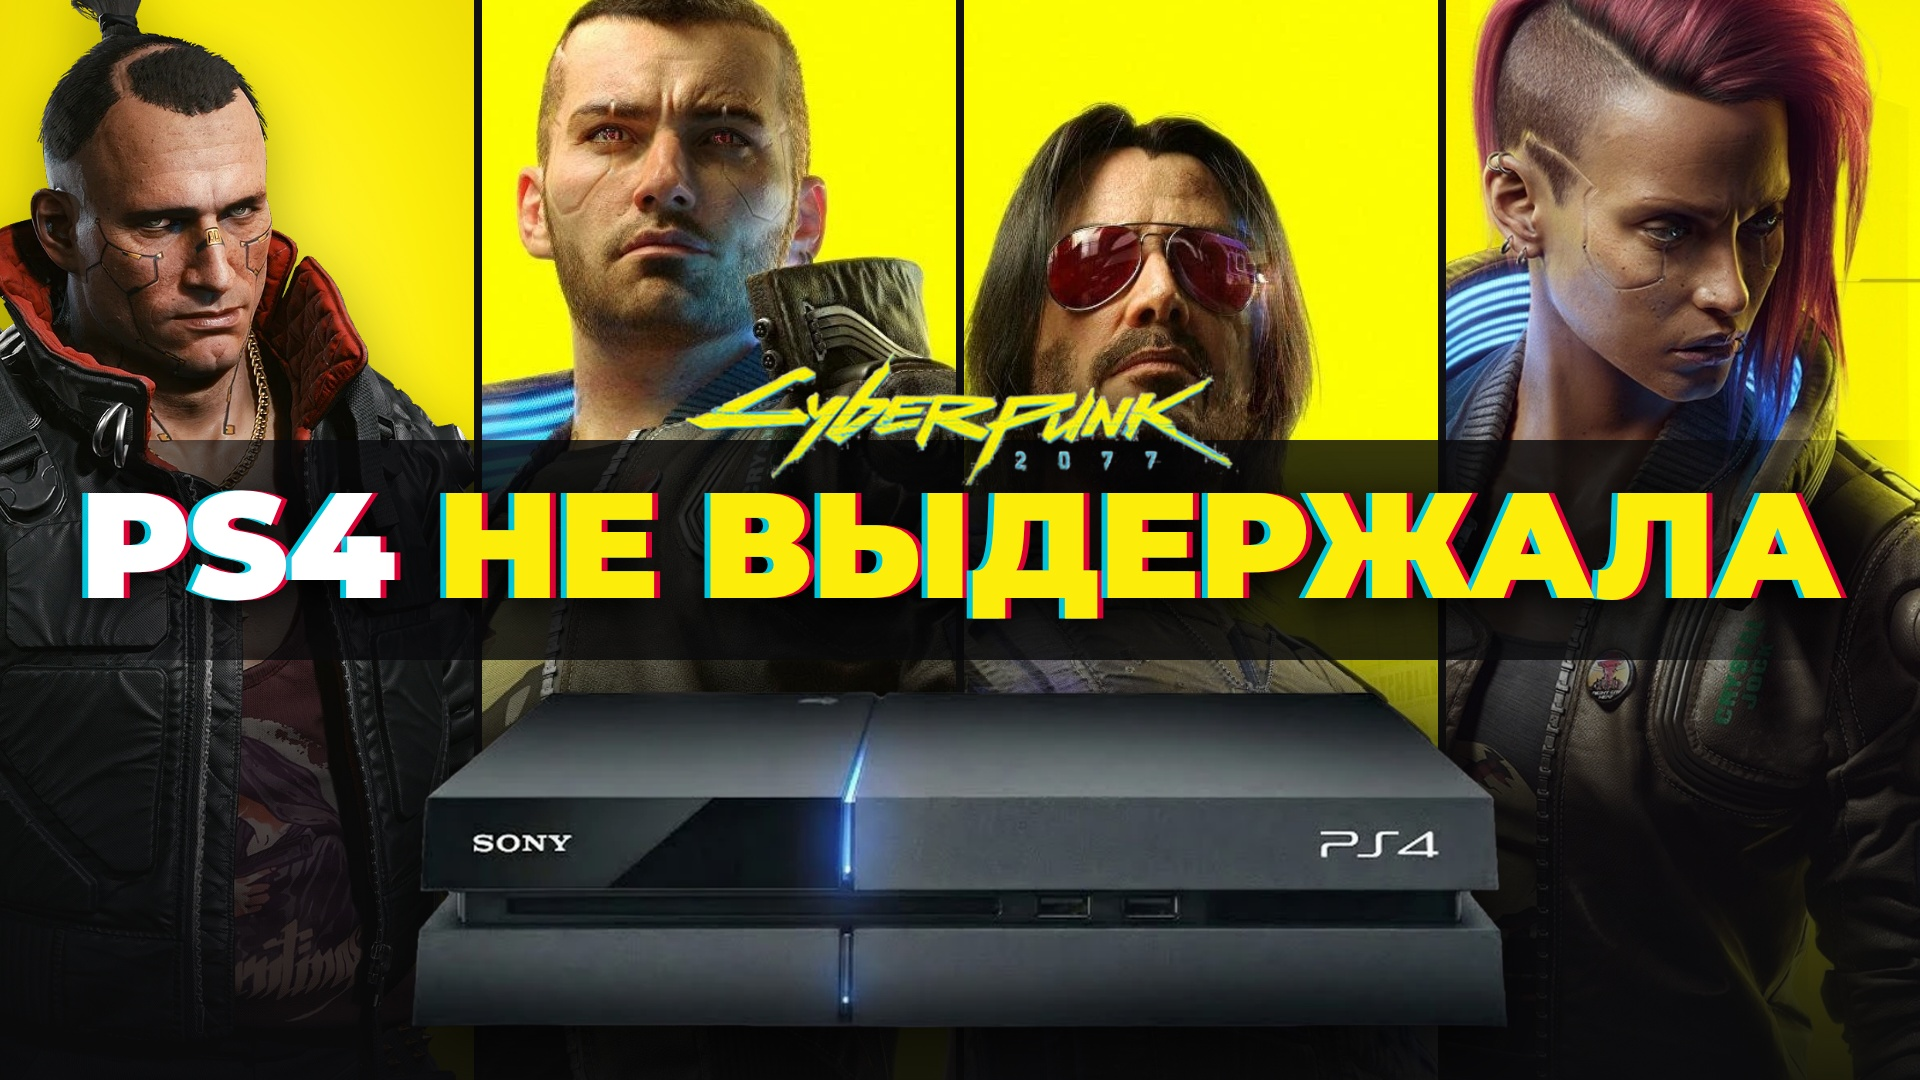
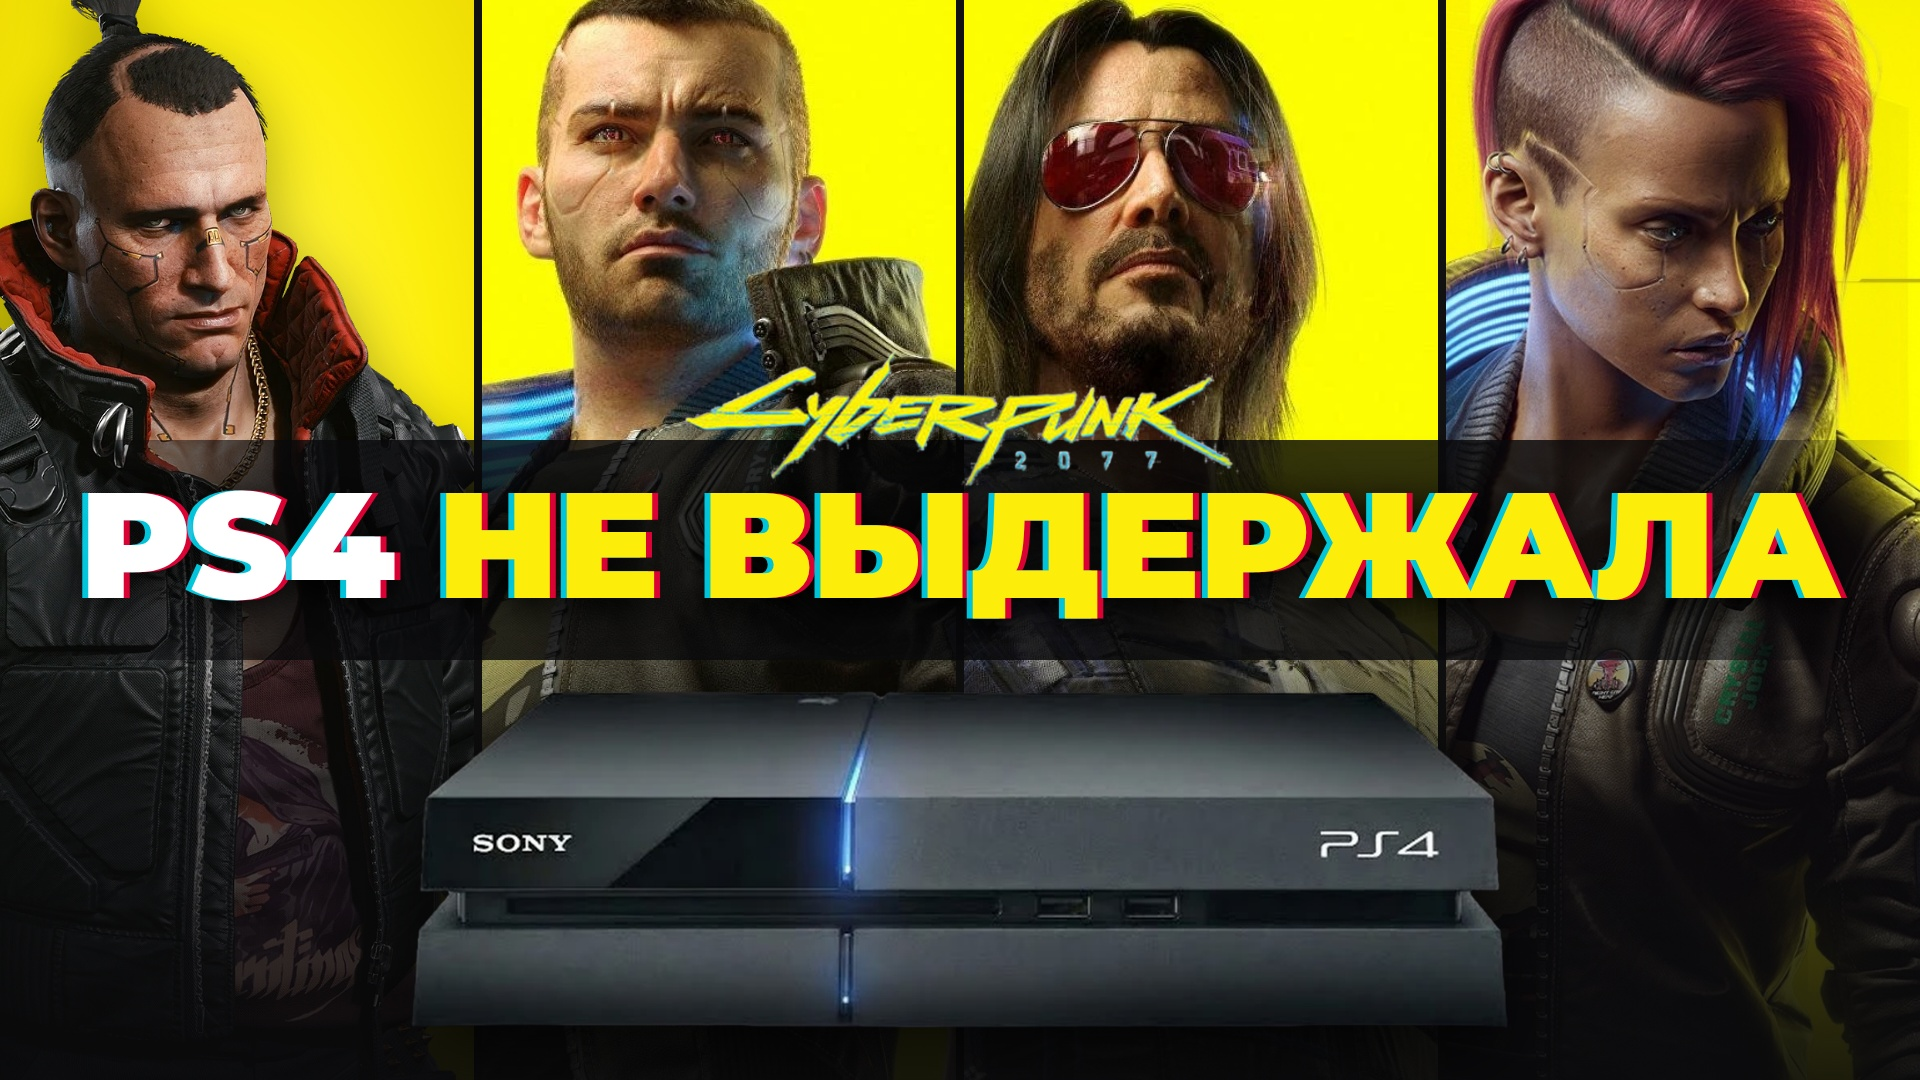
Cyberpunk thumbnail: raise Keanu to match others
Claude-Session: https://claude.ai/code/session_01RHFrx85Hg5RpkQEmnVQQfw

Changed region(s): [[0.5, 0.0, 0.6875, 0.4278], [0.5, 0.6111, 0.75, 0.7028], [0.5312, 0.3972, 0.5625, 0.4278]]

diff --git a/cyberpunk/thumb/thumb2.html b/cyberpunk/thumb/thumb2.html
@@ -15,7 +15,7 @@ html,body{width:1920px;height:1080px;overflow:hidden;background:#111;font-family
 </style></head><body>
 <div class="p" style="left:0px;width:474px"><div class="bg" style="background:radial-gradient(ellipse 80% 70% at 50% 40%,#fff35a,#fcee0a 55%,#e8d400)"></div><img src="/cyberpunk/assets/jackie_cut.png" style="position:absolute;height:1350px;left:-330px;top:-30px;filter:drop-shadow(0 20px 30px rgba(0,0,0,.35))"></div>
 <div class="p" style="left:482px;width:474px"><div class="bg" style="background:#fcee0a url(/cyberpunk/assets/y_duo.jpg) no-repeat;background-size:auto 1250px;background-position:-640px -40px"></div></div>
-<div class="p" style="left:964px;width:474px"><div class="bg" style="background:#fcee0a url(/cyberpunk/assets/y_duo.jpg) no-repeat;background-size:auto 1300px;background-position:-1436px -150px"></div></div>
+<div class="p" style="left:964px;width:474px"><div class="bg" style="background:#fcee0a url(/cyberpunk/assets/y_duo.jpg) no-repeat;background-size:auto 1350px;background-position:-1500px -268px"></div></div>
 <div class="p" style="left:1446px;width:474px"><div class="bg" style="background:#fcee0a url(/cyberpunk/assets/y_femv.jpg) no-repeat;background-size:auto 1200px;background-position:-530px -20px"></div></div>
 <div class="shade"></div><div class="band"></div>
 <img class="logo" id="logo" src="/cyberpunk/assets/cp_logo.png">
